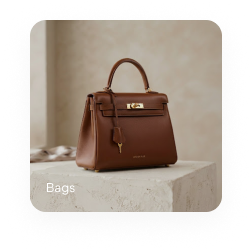
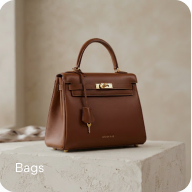
complete Browse Section with responsive

diff --git a/css/style.css b/css/style.css
@@ -5,24 +5,30 @@ nav {
     width: 100%;
     height: fit-content;
     background-color: rgb(252, 249, 248, .8);
+    animation: pop 0.5s alternate ease;
+    z-index: 999;
 }
 
 nav .container {
     margin-block: 0;
 }
-nav  img {
+
+nav img {
     width: 100px;
 }
-nav .container .navbar-content{
+
+nav .container .navbar-content {
     margin: 10px 0;
 }
-nav .navbar-content ul li{
+
+nav .navbar-content ul li {
     position: relative;
     margin-inline: 5px;
     font-size: 14px;
     width: fit-content;
 }
-nav .navbar-content ul li::after{
+
+nav .navbar-content ul li::after {
     content: "";
     position: absolute;
     display: block;
@@ -32,15 +38,19 @@ nav .navbar-content ul li::after{
     background-color: var(--primary-color);
     transition-duration: .5s;
 }
-nav .navbar-content ul li:hover:after{
+
+nav .navbar-content ul li:hover:after {
     width: 100%;
 }
-nav .navbar-content ul li.active::after  {
+
+nav .navbar-content ul li.active::after {
     width: 100%;
 }
-nav .navbar-content ul li .active{
+
+nav .navbar-content ul li .active {
     color: var(--primary-color);
 }
+
 nav .navbar-content .icons a {
     color: var(--primary-color);
     margin-left: 15px;
@@ -69,22 +79,28 @@ header .container .part-1 {
 }
 
 header .container .part-1 .caption {
+    position: relative;
     font-size: 14px;
     color: var(--primary-color);
+    animation: pop 0.5s alternate ease;
 }
+
 
 header .container .part-1 h1 {
     font-size: 50px;
     color: var(--text-color);
     width: 50%;
     margin: 20px 0px;
+    animation: pop 0.5s alternate ease;
 }
 
 header .container .part-1 p {
     color: var(--paragraph-color);
     width: 80%;
     margin-bottom: 20px;
+    animation: pop 0.5s alternate ease;
 }
+
 
 header .container .part-1 .buttons button {
     margin-right: 10px;
@@ -94,6 +110,7 @@ header .container .part-1 .buttons button {
     border: 1px solid #000;
     cursor: pointer;
     transition-duration: .5s;
+    animation: pop 0.5s alternate ease;
 }
 
 header .container .part-1 button:first-child:hover {
@@ -121,6 +138,7 @@ header .container .part-2 {
     border-radius: var(--border-r);
     overflow: hidden;
     height: stretch;
+    animation: pop 1s alternate ease;
 }
 
 header .container .part-2::before {
@@ -174,4 +192,52 @@ header .container .part-2 .content p {
 header .container .part-2 .content h3 {
     width: 70%;
     font-size: 16px;
+}
+
+/**  Browse Section  */
+#collections .container .title h2 {
+    position: relative;
+    font-size: 28px;
+    margin-bottom: 40px;
+}
+
+#collections .container .title h2::before {
+    content: "";
+    position: absolute;
+    width: 80px;
+    height: 3px;
+    bottom: -10px;
+    left: 50%;
+    transform: translateX(-50%);
+    border-radius: 50%;
+    background-color: var(--primary-color);
+}
+
+#collections .container .collection {
+    display: flex;
+    flex-wrap: wrap;
+    overflow: hidden;
+}
+
+#collections .container .collection .box {
+    width: calc(100% / 6);
+}
+
+#collections .container .collection .box .item {
+    width: 90%;
+    margin: auto;
+    border-radius: var(--border-r);
+    overflow: hidden;
+}
+
+#collections .container .collection .box .item img {
+    width: 100%;
+    transition-duration: .5s;
+    filter: blur(1px);
+    filter: brightness(70%);
+}
+#collections .container .collection .box .item:hover img{
+    filter: brightness(100%);
+    filter: blur(0);
+    transform: scale(1.1);
 }

diff --git a/index.html b/index.html
@@ -23,6 +23,7 @@
     <link rel="stylesheet" href="./css/fonts.css">
     <link rel="stylesheet" href="./css/bootstrap.min.css">
     <link rel="stylesheet" href="./css/global.css">
+    <link rel="stylesheet" href="./css/style.keyframes.css">
     <link rel="stylesheet" href="./css/style.css">
     <link rel="stylesheet" href="./css/style.responsive.css">
 
@@ -71,7 +72,7 @@
         <div class="container">
             <div class="part-1">
                 <p class="caption">EST. 2026 LUXORA</p>
-                <h1>THE ART OF REFINEMENT</h1>
+                <h1>Luxora That Defines Your Style</h1>
                 <p>Timeless accessories curated for the modern
                     aesthetic. Discover the intersection of high-fashion
                     craftsmanship and effortless minimalism.</p>
@@ -94,6 +95,47 @@
         </div>
     </header>
 
+    <!--*-------- Browse Section --------*-->
+    <section id="collections">
+        <div class="container">
+            <div class="title text-center">
+                <h2>Browse Collections</h2>
+            </div>
+
+            <div class="collection">
+                <div class="box">
+                    <div class="item">
+                        <img src="./images/rings.png" alt="rings">
+                    </div>
+                </div>
+                <div class="box">
+                    <div class="item">
+                        <img src="./images/necklaces.png" alt="necklaces">
+                    </div>
+                </div>
+                <div class="box">
+                    <div class="item">
+                        <img src="./images/bracelets.png" alt="bracelets">
+                    </div>
+                </div>
+                <div class="box">
+                    <div class="item">
+                        <img src="./images/Watches.png" alt="Watches">
+                    </div>
+                </div>
+                <div class="box">
+                    <div class="item">
+                        <img src="./images/Sunglasses.png" alt="Sunglasses">
+                    </div>
+                </div>
+                <div class="box">
+                    <div class="item">
+                        <img src="./images/Bags.png" alt="Bags">
+                    </div>
+                </div>
+            </div>
+        </div>
+    </section>
     <script src="./js/bootstrap.bundle.js"></script>
 </body>
 

diff --git a/css/style.responsive.css b/css/style.responsive.css
@@ -21,6 +21,10 @@
     }
 
     /*& Header Section */
+    header {
+        height: auto;
+    }
+
     header .container {
         flex-direction: column;
     }
@@ -57,6 +61,13 @@
         width: 100%;
     }
 
+    /*&  Browse Section  */
+    #collections .container .collection .box {
+        margin: auto;
+        width: 40%;
+        margin-bottom: 15px;
+    }
+
 }
 
 /* 450 */
@@ -70,7 +81,6 @@
 
 /* 650 */
 @media (min-width: 577px) and (max-width: 1300px) {
-
     /*& Header Section */
     header .container .part-1 .caption {
         font-size: 14px;
@@ -85,26 +95,41 @@
         font-size: 12px;
         margin-bottom: 20px;
     }
+
+    /*&  Browse Section  */
+    #collections .container .collection .box {
+        width: 33.33%;
+        margin-bottom: 15px;
+    }
 }
 
 /* 850 */
 @media (min-width: 769px) and (max-width: 1300px) {
-
     /*& Header Section */
+    header {
+        height: calc(100vh - 80px);
+    }
+
     header .container {
         flex-direction: row;
     }
-    
+
     header .container .part-1 {
         width: 50%;
         margin: 0px;
         text-align: start;
     }
+
     header .container .part-1 .buttons button {
         padding: 8px 18px;
         font-size: 12px;
     }
 
+    /*&  Browse Section  */
+    #collections .container .collection .box {
+        width: calc(100% / 6);
+        margin-bottom: 0px;
+    }
 }
 
 /* 1050 */
@@ -119,7 +144,9 @@
         position: initial;
         background-color: rgb(252, 249, 248, .8);
     }
-        /*& Header Section */
+
+    /*& Header Section */
+
     header .container .part-1 h1 {
         font-size: 45px;
     }

diff --git a/css/style.keyframes.css b/css/style.keyframes.css
@@ -1,0 +1,11 @@
+@keyframes pop {
+    from {
+        transform: translateY(-30px);
+        opacity: 0;
+    }
+
+    to {
+        transform: translateY(0px);
+        opacity: 1;
+    }
+}